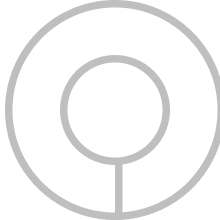
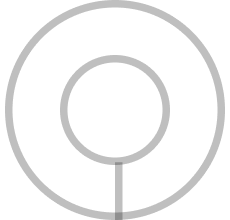
replace cutoff images

diff --git a/Sano/screens/HomeScreen.js b/Sano/screens/HomeScreen.js
@@ -11,6 +11,7 @@ import { TouchableOpacity } from "react-native-gesture-handler";
 
 export default class HomeScreen extends Component {
 
+
     
     constructor(props){
         super(props);
@@ -18,8 +19,22 @@ export default class HomeScreen extends Component {
         //let shared = User.getUser();
         this.state = {
             selectedIndex: 0,
+            imagePressed: false, // when the image is pressed we expand the image view
         }        
     }
+
+    // componentDidMount () {
+    //     const unsubscribe = this.props.navigation.addListener('tabPress', e => {
+    //         // Prevent default action
+    //         e.preventDefault();
+    //         alert('Default behavior prevented');
+
+    //       });
+
+    //       this._unsubscribe = this.props.navigation.addListener('tabPress', () => {
+    //         alert('Default behavior prevented1');
+    //       });
+    // }
 
     likePressed = () => {
         alert('like Pressed')
@@ -38,6 +53,9 @@ export default class HomeScreen extends Component {
     profileImagePressed = () => {
         alert('ProfileImage Pressed');
     }
+    handleImagePress = () => {
+        this.setState({imagePressed: !this.state.imagePressed})
+    }
 
 
     render(){
@@ -49,8 +67,9 @@ export default class HomeScreen extends Component {
                     <MasonryList
                         sorted
                         columns = {1}
-                        imageContainerStyle	= {{height: 400,}}
+                        imageContainerStyle	= {{height: this.state.imagePressed? 500: 400,}}
                         containerWidth	= {(Dimensions.get('window').width)}
+                        onPressImage = {this.handleImagePress}
                         images={[
                             { uri: "https://luehangs.site/pic-chat-app-images/beautiful-blond-blonde-hair-478544.jpg"                        },
                             { source: { uri: "https://luehangs.site/pic-chat-app-images/beautiful-beautiful-women-beauty-40901.jpg" } },
@@ -91,7 +110,6 @@ export default class HomeScreen extends Component {
                         }
                         }
 
-                        onPressImage = {this.collectionPressed}
                         renderIndividualFooter={(res) => {
                             return (
                             <View style = {styles.PostFooter}>

diff --git a/Sano/navigation/MainTabNavigator.js b/Sano/navigation/MainTabNavigator.js
@@ -1,8 +1,16 @@
 import React from 'react';
-import { Image, StyleSheet, View } from 'react-native';
+import { Image, StyleSheet, View, Text } from 'react-native';
 import { createStackNavigator } from 'react-navigation-stack';
 import { createBottomTabNavigator } from 'react-navigation-tabs';
 import Images from '../assets/Images/Images';
+import {
+  Menu,
+  MenuProvider,
+  MenuOptions,
+  MenuOption,
+  MenuTrigger,
+  renderers,
+} from 'react-native-popup-menu';
 
 
 import HomeScreen from '../screens/HomeScreen';
@@ -158,6 +166,7 @@ AlertStack.navigationOptions = {
             header: null,
             showLabel: false,
 
+
           }
 
     }
@@ -179,6 +188,32 @@ AlertStack.navigationOptions = {
       
 
     },
+    tabBarOnPress:({navigation, defaultHandler}) => {
+      
+      // render() {
+      //   return (
+      //     <View
+      //       style={{
+      //         flexDirection: "row",
+      //         height: 100,
+      //         padding: 20
+      //       }}
+      //     >
+      //       <View style={{ backgroundColor: "blue", flex: 0.3 }} />
+      //       <View style={{ backgroundColor: "red", flex: 0.5 }} />
+      //       <Text>Hello World!</Text>
+      //     </View>
+      //   );
+      // };
+      
+      
+       console.log(navigation.dangerouslyGetParent().state.routes.routesName );
+
+
+      //  navigation.navigate('HomeStack')
+       //preventDefault();
+
+}
   };
 
   const styles = StyleSheet.create({
